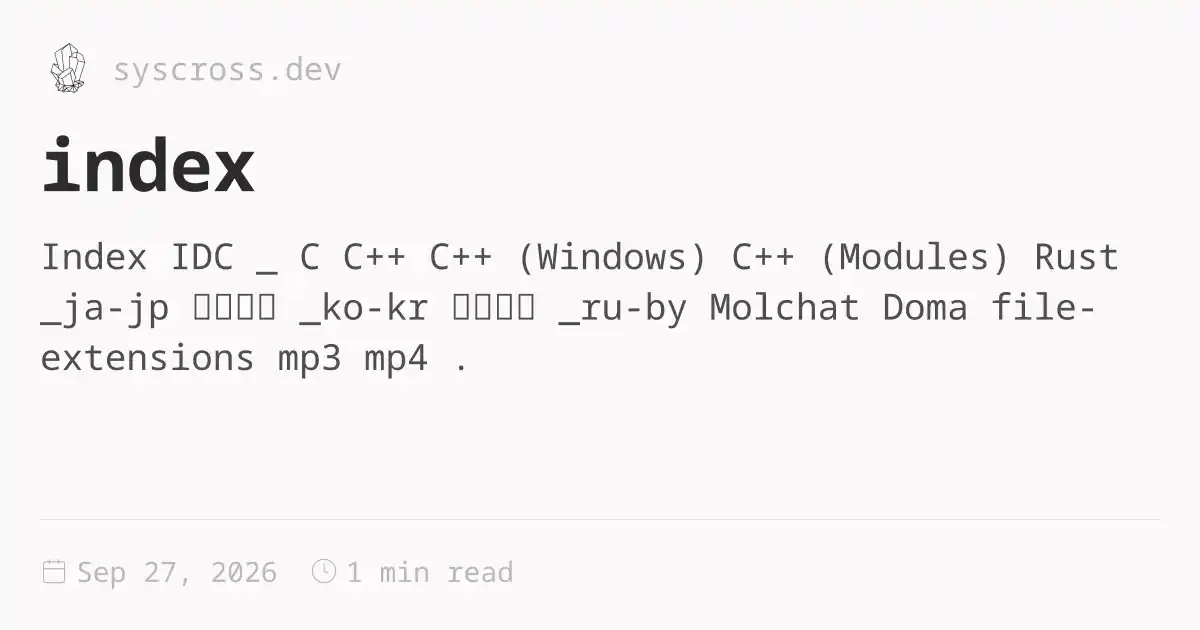
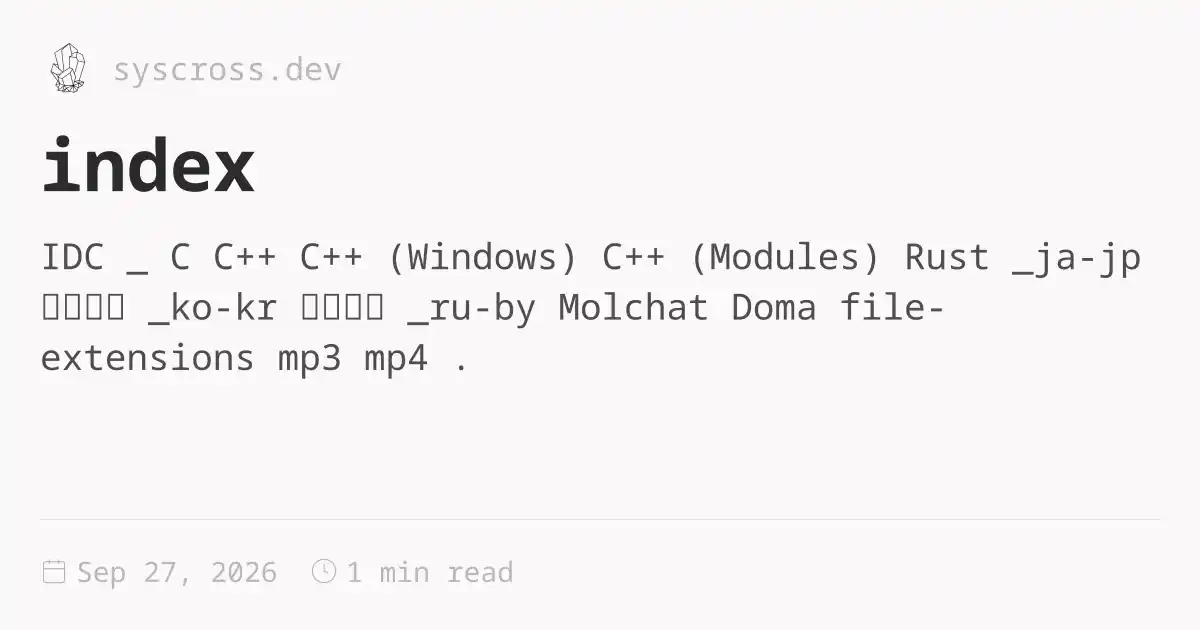
sync

Changed region(s): [[0.0308, 0.3921, 0.9558, 0.5429]]

diff --git a/.target/index.html b/.target/index.html
@@ -1,6 +1,5 @@
 <!DOCTYPE html>
-<html lang="en" dir="ltr"><head><title>index</title><meta charset="utf-8"/><link rel="preload" href="./index-17ede50d.css" as="style"/><link rel="preload" href="./prescript-2bfc6315.js" as="script"/><link rel="preconnect" href="https://fonts.googleapis.com"/><link rel="preconnect" href="https://fonts.gstatic.com"/><link rel="stylesheet" href="https://fonts.googleapis.com/css2?family=Noto Sans Mono:wght@400;700&amp;family=Noto Sans Mono:ital,wght@0,400;0,600;1,400;1,600&amp;family=Noto Sans Mono:wght@400;600&amp;display=swap"/><link rel="preconnect" href="https://cdnjs.cloudflare.com" crossorigin="anonymous"/><meta name="viewport" content="width=device-width, initial-scale=1.0"/><meta name="og:site_name" content="SysCross"/><meta property="og:title" content="index"/><meta property="og:type" content="website"/><meta name="twitter:card" content="summary_large_image"/><meta name="twitter:title" content="index"/><meta name="twitter:description" content="Index IDC _ C C++ C++ (Windows) C++ (Modules) Rust _ja-jp 電検三種 _ko-kr 전기기사 _ru-by Molchat Doma file-extensions mp3 mp4 ."/><meta property="og:description" content="Index IDC _ C C++ C++ (Windows) C++ (Modules) Rust _ja-jp 電検三種 _ko-kr 전기기사 _ru-by Molchat Doma file-extensions mp3 mp4 ."/><meta property="og:image:alt" content="Index IDC _ C C++ C++ (Windows) C++ (Modules) Rust _ja-jp 電検三種 _ko-kr 전기기사 _ru-by Molchat Doma file-extensions mp3 mp4 ."/><meta property="twitter:domain" content="syscross.dev"/><meta property="og:url" content="https://syscross.dev/index"/><meta property="twitter:url" content="https://syscross.dev/index"/><link rel="icon" href="./static/icon.png"/><meta name="description" content="Index IDC _ C C++ C++ (Windows) C++ (Modules) Rust _ja-jp 電検三種 _ko-kr 전기기사 _ru-by Molchat Doma file-extensions mp3 mp4 ."/><meta name="generator" content="Quartz"/><link href="./index-17ede50d.css" rel="stylesheet" type="text/css" data-persist="true"/><link href="./component-735924e0.css" rel="stylesheet" type="text/css" data-persist="true"/><link href="./component-589c1cea.css" rel="stylesheet" type="text/css" data-persist="true"/><link href="./component-bbc3f7c0.css" rel="stylesheet" type="text/css" data-persist="true"/><link href="./component-2911f5d1.css" rel="stylesheet" type="text/css" data-persist="true"/><link href="./component-e427079e.css" rel="stylesheet" type="text/css" data-persist="true"/><link href="./component-53b25b2b.css" rel="stylesheet" type="text/css" data-persist="true"/><link href="./component-c93c6a44.css" rel="stylesheet" type="text/css" data-persist="true"/><link href="./component-8a06014f.css" rel="stylesheet" type="text/css" data-persist="true"/><link href="./component-77d6a441.css" rel="stylesheet" type="text/css" data-persist="true"/><link href="./component-6ee21cee.css" rel="stylesheet" type="text/css" data-persist="true"/><link href="./component-1ea6ad18.css" rel="stylesheet" type="text/css" data-persist="true"/><link href="./component-34bdfded.css" rel="stylesheet" type="text/css" data-persist="true"/><link href="./component-788c9ca3.css" rel="stylesheet" type="text/css" data-persist="true"/><link href="./component-642859cd.css" rel="stylesheet" type="text/css" data-persist="true"/><link href="./component-4abc06bd.css" rel="stylesheet" type="text/css" data-persist="true"/><link href="./component-274a3dfe.css" rel="stylesheet" type="text/css" data-persist="true"/><link href="./component-94cb6c84.css" rel="stylesheet" type="text/css" data-persist="true"/><link href="./component-58d5ff56.css" rel="stylesheet" type="text/css" data-persist="true"/><link href="./component-7262b5a7.css" rel="stylesheet" type="text/css" data-persist="true"/><link href="./static/resource-style-a5c806d2.css" rel="stylesheet" type="text/css" data-persist="true"/><link href="./static/resource-style-6bd36952.css" rel="stylesheet" type="text/css" data-persist="true"/><link href="./static/resource-style-9857b007.css" rel="stylesheet" type="text/css" data-persist="true"/><link href="./static/resource-style-d3a1a224.css" rel="stylesheet" type="text/css" data-persist="true"/><link href="https://cdn.jsdelivr.net/npm/katex@0.16.11/dist/katex.min.css" rel="stylesheet" type="text/css" data-persist="true"/><script src="./prescript-2bfc6315.js" type="application/javascript" data-persist="true"></script><script type="application/javascript" data-persist="true">const fetchData = fetch("./static/contentIndex.json").then(data => data.json())</script><link rel="preconnect" href="https://fonts.googleapis.com"/><link rel="preconnect" href="https://fonts.gstatic.com" crossorigin="anonymous"/><link rel="stylesheet" href="https://fonts.googleapis.com/css2?family=Schibsted%20Grotesk%3Awght%40400%3B700&amp;family=Source%20Sans%20Pro%3Aital%2Cwght%400%2C400%3B0%2C600%3B1%2C400%3B1%2C600&amp;family=IBM%20Plex%20Mono%3Awght%40400%3B600&amp;display=swap"/><meta property="og:image:width" content="1200"/><meta property="og:image:height" content="630"/><meta property="og:image" content="https://syscross.dev/index-og-image.webp"/><meta property="og:image:url" content="https://syscross.dev/index-og-image.webp"/><meta name="twitter:image" content="https://syscross.dev/index-og-image.webp"/><meta property="og:image:type" content="image/webp"/></head><body data-slug="index" data-basepath><div id="quartz-root" class="page" data-frame="default"><div id="quartz-body"><div class="left sidebar"><h2 class="page-title"><a href=".">SysCross</a></h2><div class="mobile-only"><div class="spacer"></div></div><div class="flex-component" style="flex-direction: row; flex-wrap: nowrap; gap: 0.5rem;"><div style="flex-grow: 1; flex-shrink: 1; flex-basis: auto; order: 0; align-self: center; justify-self: center;"><div class="search"><button class="search-button" aria-label="Search" aria-expanded="false"><svg role="img" xmlns="http://www.w3.org/2000/svg" viewBox="0 0 19.9 19.7"><title>Search</title><g class="search-path" fill="none"><path stroke-linecap="square" d="M18.5 18.3l-5.4-5.4"></path><circle cx="8" cy="8" r="7"></circle></g></svg><p>Search</p></button><div class="search-container"><div class="search-space"><input autocomplete="off" class="search-bar" name="search" type="text" aria-label="Search for something..." placeholder="Search for something..."/><div class="search-layout" data-preview="true" data-field-priority="[&quot;title&quot;,&quot;content&quot;,&quot;tags&quot;]"></div></div></div></div></div><div style="flex-grow: 0; flex-shrink: 1; flex-basis: auto; order: 0; align-self: center; justify-self: center;"><button class="darkmode" aria-label="Dark mode"><svg xmlns="http://www.w3.org/2000/svg" xmlns:xlink="http://www.w3.org/1999/xlink" version="1.1" class="dayIcon" x="0px" y="0px" viewBox="0 0 35 35" style="enable-background:new 0 0 35 35" xml:space="preserve" aria-label="Dark mode"><title>Dark mode</title><path d="M6,17.5C6,16.672,5.328,16,4.5,16h-3C0.672,16,0,16.672,0,17.5    S0.672,19,1.5,19h3C5.328,19,6,18.328,6,17.5z M7.5,26c-0.414,0-0.789,0.168-1.061,0.439l-2,2C4.168,28.711,4,29.086,4,29.5    C4,30.328,4.671,31,5.5,31c0.414,0,0.789-0.168,1.06-0.44l2-2C8.832,28.289,9,27.914,9,27.5C9,26.672,8.329,26,7.5,26z M17.5,6    C18.329,6,19,5.328,19,4.5v-3C19,0.672,18.329,0,17.5,0S16,0.672,16,1.5v3C16,5.328,16.671,6,17.5,6z M27.5,9    c0.414,0,0.789-0.168,1.06-0.439l2-2C30.832,6.289,31,5.914,31,5.5C31,4.672,30.329,4,29.5,4c-0.414,0-0.789,0.168-1.061,0.44    l-2,2C26.168,6.711,26,7.086,26,7.5C26,8.328,26.671,9,27.5,9z M6.439,8.561C6.711,8.832,7.086,9,7.5,9C8.328,9,9,8.328,9,7.5    c0-0.414-0.168-0.789-0.439-1.061l-2-2C6.289,4.168,5.914,4,5.5,4C4.672,4,4,4.672,4,5.5c0,0.414,0.168,0.789,0.439,1.06    L6.439,8.561z M33.5,16h-3c-0.828,0-1.5,0.672-1.5,1.5s0.672,1.5,1.5,1.5h3c0.828,0,1.5-0.672,1.5-1.5S34.328,16,33.5,16z     M28.561,26.439C28.289,26.168,27.914,26,27.5,26c-0.828,0-1.5,0.672-1.5,1.5c0,0.414,0.168,0.789,0.439,1.06l2,2    C28.711,30.832,29.086,31,29.5,31c0.828,0,1.5-0.672,1.5-1.5c0-0.414-0.168-0.789-0.439-1.061L28.561,26.439z M17.5,29    c-0.829,0-1.5,0.672-1.5,1.5v3c0,0.828,0.671,1.5,1.5,1.5s1.5-0.672,1.5-1.5v-3C19,29.672,18.329,29,17.5,29z M17.5,7    C11.71,7,7,11.71,7,17.5S11.71,28,17.5,28S28,23.29,28,17.5S23.29,7,17.5,7z M17.5,25c-4.136,0-7.5-3.364-7.5-7.5    c0-4.136,3.364-7.5,7.5-7.5c4.136,0,7.5,3.364,7.5,7.5C25,21.636,21.636,25,17.5,25z"></path></svg><svg xmlns="http://www.w3.org/2000/svg" xmlns:xlink="http://www.w3.org/1999/xlink" version="1.1" class="nightIcon" x="0px" y="0px" viewBox="0 0 100 100" style="enable-background:new 0 0 100 100" xml:space="preserve" aria-label="Light mode"><title>Light mode</title><path d="M96.76,66.458c-0.853-0.852-2.15-1.064-3.23-0.534c-6.063,2.991-12.858,4.571-19.655,4.571  C62.022,70.495,50.88,65.88,42.5,57.5C29.043,44.043,25.658,23.536,34.076,6.47c0.532-1.08,0.318-2.379-0.534-3.23  c-0.851-0.852-2.15-1.064-3.23-0.534c-4.918,2.427-9.375,5.619-13.246,9.491c-9.447,9.447-14.65,22.008-14.65,35.369  c0,13.36,5.203,25.921,14.65,35.368s22.008,14.65,35.368,14.65c13.361,0,25.921-5.203,35.369-14.65  c3.872-3.871,7.064-8.328,9.491-13.246C97.826,68.608,97.611,67.309,96.76,66.458z"></path></svg></button></div><div style="flex-grow: 0; flex-shrink: 1; flex-basis: auto; order: 0; align-self: center; justify-self: center;"><button class="readermode" aria-label="Reader mode"><svg xmlns="http://www.w3.org/2000/svg" xmlns:xlink="http://www.w3.org/1999/xlink" version="1.1" class="readerIcon" fill="currentColor" stroke="currentColor" stroke-width="0.2" stroke-linecap="round" stroke-linejoin="round" width="64px" height="64px" viewBox="0 0 24 24" aria-label="Reader mode"><title>Reader mode</title><g transform="translate(-1.8, -1.8) scale(1.15, 1.2)"><path d="M8.9891247,2.5 C10.1384702,2.5 11.2209868,2.96705384 12.0049645,3.76669482 C12.7883914,2.96705384 13.8709081,2.5 15.0202536,2.5 L18.7549359,2.5 C19.1691495,2.5 19.5049359,2.83578644 19.5049359,3.25 L19.5046891,4.004 L21.2546891,4.00457396 C21.6343849,4.00457396 21.9481801,4.28672784 21.9978425,4.6528034 L22.0046891,4.75457396 L22.0046891,20.25 C22.0046891,20.6296958 21.7225353,20.943491 21.3564597,20.9931534 L21.2546891,21 L2.75468914,21 C2.37499337,21 2.06119817,20.7178461 2.01153575,20.3517706 L2.00468914,20.25 L2.00468914,4.75457396 C2.00468914,4.37487819 2.28684302,4.061083 2.65291858,4.01142057 L2.75468914,4.00457396 L4.50368914,4.004 L4.50444233,3.25 C4.50444233,2.87030423 4.78659621,2.55650904 5.15267177,2.50684662 L5.25444233,2.5 L8.9891247,2.5 Z M4.50368914,5.504 L3.50468914,5.504 L3.50468914,19.5 L10.9478955,19.4998273 C10.4513189,18.9207296 9.73864328,18.5588115 8.96709342,18.5065584 L8.77307039,18.5 L5.25444233,18.5 C4.87474657,18.5 4.56095137,18.2178461 4.51128895,17.8517706 L4.50444233,17.75 L4.50368914,5.504 Z M19.5049359,17.75 C19.5049359,18.1642136 19.1691495,18.5 18.7549359,18.5 L15.2363079,18.5 C14.3910149,18.5 13.5994408,18.8724714 13.0614828,19.4998273 L20.5046891,19.5 L20.5046891,5.504 L19.5046891,5.504 L19.5049359,17.75 Z M18.0059359,3.999 L15.0202536,4 L14.8259077,4.00692283 C13.9889509,4.06666544 13.2254227,4.50975805 12.7549359,5.212 L12.7549359,17.777 L12.7782651,17.7601316 C13.4923805,17.2719483 14.3447024,17 15.2363079,17 L18.0059359,16.999 L18.0056891,4.798 L18.0033792,4.75457396 L18.0056891,4.71 L18.0059359,3.999 Z M8.9891247,4 L6.00368914,3.999 L6.00599909,4.75457396 L6.00599909,4.75457396 L6.00368914,4.783 L6.00368914,16.999 L8.77307039,17 C9.57551536,17 10.3461406,17.2202781 11.0128313,17.6202194 L11.2536891,17.776 L11.2536891,5.211 C10.8200889,4.56369974 10.1361548,4.13636104 9.37521067,4.02745763 L9.18347055,4.00692283 L8.9891247,4 Z"></path></g></svg></button></div></div><div class="explorer nav-files-container" data-behavior="link" data-collapsed="collapsed" data-savestate="true" data-data-fns="{&quot;order&quot;:[&quot;filter&quot;,&quot;map&quot;,&quot;sort&quot;],&quot;sortFn&quot;:&quot;(a2, b2) => {\n    if (!a2.isFolder &amp;&amp; !b2.isFolder || a2.isFolder &amp;&amp; b2.isFolder) {\n      return (a2.displayName || \&quot;\&quot;).localeCompare(b2.displayName || \&quot;\&quot;, void 0, {\n        numeric: true,\n        sensitivity: \&quot;base\&quot;\n      });\n    }\n    if (!a2.isFolder &amp;&amp; b2.isFolder) {\n      return 1;\n    }\n    return -1;\n  }&quot;,&quot;filterFn&quot;:&quot;(node) => node.slugSegment !== \&quot;tags\&quot;&quot;,&quot;mapFn&quot;:&quot;(node) => {\n    return node;\n  }&quot;}"><button type="button" class="explorer-toggle mobile-explorer hide-until-loaded" data-mobile="true" aria-controls="explorer-21" aria-label="Explorer"><svg xmlns="http://www.w3.org/2000/svg" width="24" height="24" viewBox="0 0 24 24" stroke-width="2" stroke-linecap="round" stroke-linejoin="round" class="lucide-menu"><line x1="4" x2="20" y1="12" y2="12"></line><line x1="4" x2="20" y1="6" y2="6"></line><line x1="4" x2="20" y1="18" y2="18"></line></svg></button><button type="button" class="title-button explorer-toggle desktop-explorer" data-mobile="false" aria-expanded="true"><h2>Explorer</h2><svg xmlns="http://www.w3.org/2000/svg" width="14" height="14" viewBox="5 8 14 8" fill="none" stroke="currentColor" stroke-width="2" stroke-linecap="round" stroke-linejoin="round" class="fold"><polyline points="6 9 12 15 18 9"></polyline></svg></button><div id="explorer-21" class="explorer-content" aria-expanded="false" role="group"><ul class="explorer-ul overflow" id="list-0"><li class="overflow-end"></li></ul></div><template id="template-file"><li><a href="#" class="nav-file-title tree-item-self"></a></li></template><template id="template-folder"><li><div class="folder-container nav-folder-title tree-item-self"><svg xmlns="http://www.w3.org/2000/svg" width="12" height="12" viewBox="5 8 14 8" fill="none" stroke="currentColor" stroke-width="2" stroke-linecap="round" stroke-linejoin="round" class="folder-icon nav-folder-collapse-indicator collapse-icon"><polyline points="6 9 12 15 18 9"></polyline></svg><div><button class="folder-button"><span class="folder-title"></span></button></div></div><div class="folder-outer"><ul class="content tree-item-children"></ul></div></li></template></div></div><div class="center"><div class="page-header"><div class="popover-hint"><h1 class="article-title">index</h1><p show-comma="true" class="content-meta"><time datetime="2026-09-26T17:35:21.000Z">Sep 27, 2026</time><span>1 min read</span></p></div></div><article class="popover-hint"><div class="markdown-preview-view markdown-rendered"><h1 id="index">Index<a role="anchor" aria-hidden="true" tabindex="-1" data-no-popover="true" href="#index" class="internal internal-link"><svg width="18" height="18" viewBox="0 0 24 24" fill="none" stroke="currentColor" stroke-width="2" stroke-linecap="round" stroke-linejoin="round"><path d="M10 13a5 5 0 0 0 7.54.54l3-3a5 5 0 0 0-7.07-7.07l-1.72 1.71"></path><path d="M14 11a5 5 0 0 0-7.54-.54l-3 3a5 5 0 0 0 7.07 7.07l1.71-1.71"></path></svg></a></h1>
-<ul>
+<html lang="en" dir="ltr"><head><title>index</title><meta charset="utf-8"/><link rel="preload" href="./index-17ede50d.css" as="style"/><link rel="preload" href="./prescript-2bfc6315.js" as="script"/><link rel="preconnect" href="https://fonts.googleapis.com"/><link rel="preconnect" href="https://fonts.gstatic.com"/><link rel="stylesheet" href="https://fonts.googleapis.com/css2?family=Noto Sans Mono:wght@400;700&amp;family=Noto Sans Mono:ital,wght@0,400;0,600;1,400;1,600&amp;family=Noto Sans Mono:wght@400;600&amp;display=swap"/><link rel="preconnect" href="https://cdnjs.cloudflare.com" crossorigin="anonymous"/><meta name="viewport" content="width=device-width, initial-scale=1.0"/><meta name="og:site_name" content="SysCross"/><meta property="og:title" content="index"/><meta property="og:type" content="website"/><meta name="twitter:card" content="summary_large_image"/><meta name="twitter:title" content="index"/><meta name="twitter:description" content="IDC _ C C++ C++ (Windows) C++ (Modules) Rust _ja-jp 電検三種 _ko-kr 전기기사 _ru-by Molchat Doma file-extensions mp3 mp4 ."/><meta property="og:description" content="IDC _ C C++ C++ (Windows) C++ (Modules) Rust _ja-jp 電検三種 _ko-kr 전기기사 _ru-by Molchat Doma file-extensions mp3 mp4 ."/><meta property="og:image:alt" content="IDC _ C C++ C++ (Windows) C++ (Modules) Rust _ja-jp 電検三種 _ko-kr 전기기사 _ru-by Molchat Doma file-extensions mp3 mp4 ."/><meta property="twitter:domain" content="syscross.dev"/><meta property="og:url" content="https://syscross.dev/index"/><meta property="twitter:url" content="https://syscross.dev/index"/><link rel="icon" href="./static/icon.png"/><meta name="description" content="IDC _ C C++ C++ (Windows) C++ (Modules) Rust _ja-jp 電検三種 _ko-kr 전기기사 _ru-by Molchat Doma file-extensions mp3 mp4 ."/><meta name="generator" content="Quartz"/><link href="./index-17ede50d.css" rel="stylesheet" type="text/css" data-persist="true"/><link href="./component-735924e0.css" rel="stylesheet" type="text/css" data-persist="true"/><link href="./component-589c1cea.css" rel="stylesheet" type="text/css" data-persist="true"/><link href="./component-bbc3f7c0.css" rel="stylesheet" type="text/css" data-persist="true"/><link href="./component-2911f5d1.css" rel="stylesheet" type="text/css" data-persist="true"/><link href="./component-e427079e.css" rel="stylesheet" type="text/css" data-persist="true"/><link href="./component-53b25b2b.css" rel="stylesheet" type="text/css" data-persist="true"/><link href="./component-c93c6a44.css" rel="stylesheet" type="text/css" data-persist="true"/><link href="./component-8a06014f.css" rel="stylesheet" type="text/css" data-persist="true"/><link href="./component-77d6a441.css" rel="stylesheet" type="text/css" data-persist="true"/><link href="./component-6ee21cee.css" rel="stylesheet" type="text/css" data-persist="true"/><link href="./component-1ea6ad18.css" rel="stylesheet" type="text/css" data-persist="true"/><link href="./component-34bdfded.css" rel="stylesheet" type="text/css" data-persist="true"/><link href="./component-788c9ca3.css" rel="stylesheet" type="text/css" data-persist="true"/><link href="./component-642859cd.css" rel="stylesheet" type="text/css" data-persist="true"/><link href="./component-4abc06bd.css" rel="stylesheet" type="text/css" data-persist="true"/><link href="./component-274a3dfe.css" rel="stylesheet" type="text/css" data-persist="true"/><link href="./component-94cb6c84.css" rel="stylesheet" type="text/css" data-persist="true"/><link href="./component-58d5ff56.css" rel="stylesheet" type="text/css" data-persist="true"/><link href="./component-7262b5a7.css" rel="stylesheet" type="text/css" data-persist="true"/><link href="./static/resource-style-a5c806d2.css" rel="stylesheet" type="text/css" data-persist="true"/><link href="./static/resource-style-6bd36952.css" rel="stylesheet" type="text/css" data-persist="true"/><link href="./static/resource-style-9857b007.css" rel="stylesheet" type="text/css" data-persist="true"/><link href="./static/resource-style-d3a1a224.css" rel="stylesheet" type="text/css" data-persist="true"/><link href="https://cdn.jsdelivr.net/npm/katex@0.16.11/dist/katex.min.css" rel="stylesheet" type="text/css" data-persist="true"/><script src="./prescript-2bfc6315.js" type="application/javascript" data-persist="true"></script><script type="application/javascript" data-persist="true">const fetchData = fetch("./static/contentIndex.json").then(data => data.json())</script><link rel="preconnect" href="https://fonts.googleapis.com"/><link rel="preconnect" href="https://fonts.gstatic.com" crossorigin="anonymous"/><link rel="stylesheet" href="https://fonts.googleapis.com/css2?family=Schibsted%20Grotesk%3Awght%40400%3B700&amp;family=Source%20Sans%20Pro%3Aital%2Cwght%400%2C400%3B0%2C600%3B1%2C400%3B1%2C600&amp;family=IBM%20Plex%20Mono%3Awght%40400%3B600&amp;display=swap"/><meta property="og:image:width" content="1200"/><meta property="og:image:height" content="630"/><meta property="og:image" content="https://syscross.dev/index-og-image.webp"/><meta property="og:image:url" content="https://syscross.dev/index-og-image.webp"/><meta name="twitter:image" content="https://syscross.dev/index-og-image.webp"/><meta property="og:image:type" content="image/webp"/></head><body data-slug="index" data-basepath><div id="quartz-root" class="page" data-frame="default"><div id="quartz-body"><div class="left sidebar"><h2 class="page-title"><a href=".">SysCross</a></h2><div class="mobile-only"><div class="spacer"></div></div><div class="flex-component" style="flex-direction: row; flex-wrap: nowrap; gap: 0.5rem;"><div style="flex-grow: 1; flex-shrink: 1; flex-basis: auto; order: 0; align-self: center; justify-self: center;"><div class="search"><button class="search-button" aria-label="Search" aria-expanded="false"><svg role="img" xmlns="http://www.w3.org/2000/svg" viewBox="0 0 19.9 19.7"><title>Search</title><g class="search-path" fill="none"><path stroke-linecap="square" d="M18.5 18.3l-5.4-5.4"></path><circle cx="8" cy="8" r="7"></circle></g></svg><p>Search</p></button><div class="search-container"><div class="search-space"><input autocomplete="off" class="search-bar" name="search" type="text" aria-label="Search for something..." placeholder="Search for something..."/><div class="search-layout" data-preview="true" data-field-priority="[&quot;title&quot;,&quot;content&quot;,&quot;tags&quot;]"></div></div></div></div></div><div style="flex-grow: 0; flex-shrink: 1; flex-basis: auto; order: 0; align-self: center; justify-self: center;"><button class="darkmode" aria-label="Dark mode"><svg xmlns="http://www.w3.org/2000/svg" xmlns:xlink="http://www.w3.org/1999/xlink" version="1.1" class="dayIcon" x="0px" y="0px" viewBox="0 0 35 35" style="enable-background:new 0 0 35 35" xml:space="preserve" aria-label="Dark mode"><title>Dark mode</title><path d="M6,17.5C6,16.672,5.328,16,4.5,16h-3C0.672,16,0,16.672,0,17.5    S0.672,19,1.5,19h3C5.328,19,6,18.328,6,17.5z M7.5,26c-0.414,0-0.789,0.168-1.061,0.439l-2,2C4.168,28.711,4,29.086,4,29.5    C4,30.328,4.671,31,5.5,31c0.414,0,0.789-0.168,1.06-0.44l2-2C8.832,28.289,9,27.914,9,27.5C9,26.672,8.329,26,7.5,26z M17.5,6    C18.329,6,19,5.328,19,4.5v-3C19,0.672,18.329,0,17.5,0S16,0.672,16,1.5v3C16,5.328,16.671,6,17.5,6z M27.5,9    c0.414,0,0.789-0.168,1.06-0.439l2-2C30.832,6.289,31,5.914,31,5.5C31,4.672,30.329,4,29.5,4c-0.414,0-0.789,0.168-1.061,0.44    l-2,2C26.168,6.711,26,7.086,26,7.5C26,8.328,26.671,9,27.5,9z M6.439,8.561C6.711,8.832,7.086,9,7.5,9C8.328,9,9,8.328,9,7.5    c0-0.414-0.168-0.789-0.439-1.061l-2-2C6.289,4.168,5.914,4,5.5,4C4.672,4,4,4.672,4,5.5c0,0.414,0.168,0.789,0.439,1.06    L6.439,8.561z M33.5,16h-3c-0.828,0-1.5,0.672-1.5,1.5s0.672,1.5,1.5,1.5h3c0.828,0,1.5-0.672,1.5-1.5S34.328,16,33.5,16z     M28.561,26.439C28.289,26.168,27.914,26,27.5,26c-0.828,0-1.5,0.672-1.5,1.5c0,0.414,0.168,0.789,0.439,1.06l2,2    C28.711,30.832,29.086,31,29.5,31c0.828,0,1.5-0.672,1.5-1.5c0-0.414-0.168-0.789-0.439-1.061L28.561,26.439z M17.5,29    c-0.829,0-1.5,0.672-1.5,1.5v3c0,0.828,0.671,1.5,1.5,1.5s1.5-0.672,1.5-1.5v-3C19,29.672,18.329,29,17.5,29z M17.5,7    C11.71,7,7,11.71,7,17.5S11.71,28,17.5,28S28,23.29,28,17.5S23.29,7,17.5,7z M17.5,25c-4.136,0-7.5-3.364-7.5-7.5    c0-4.136,3.364-7.5,7.5-7.5c4.136,0,7.5,3.364,7.5,7.5C25,21.636,21.636,25,17.5,25z"></path></svg><svg xmlns="http://www.w3.org/2000/svg" xmlns:xlink="http://www.w3.org/1999/xlink" version="1.1" class="nightIcon" x="0px" y="0px" viewBox="0 0 100 100" style="enable-background:new 0 0 100 100" xml:space="preserve" aria-label="Light mode"><title>Light mode</title><path d="M96.76,66.458c-0.853-0.852-2.15-1.064-3.23-0.534c-6.063,2.991-12.858,4.571-19.655,4.571  C62.022,70.495,50.88,65.88,42.5,57.5C29.043,44.043,25.658,23.536,34.076,6.47c0.532-1.08,0.318-2.379-0.534-3.23  c-0.851-0.852-2.15-1.064-3.23-0.534c-4.918,2.427-9.375,5.619-13.246,9.491c-9.447,9.447-14.65,22.008-14.65,35.369  c0,13.36,5.203,25.921,14.65,35.368s22.008,14.65,35.368,14.65c13.361,0,25.921-5.203,35.369-14.65  c3.872-3.871,7.064-8.328,9.491-13.246C97.826,68.608,97.611,67.309,96.76,66.458z"></path></svg></button></div><div style="flex-grow: 0; flex-shrink: 1; flex-basis: auto; order: 0; align-self: center; justify-self: center;"><button class="readermode" aria-label="Reader mode"><svg xmlns="http://www.w3.org/2000/svg" xmlns:xlink="http://www.w3.org/1999/xlink" version="1.1" class="readerIcon" fill="currentColor" stroke="currentColor" stroke-width="0.2" stroke-linecap="round" stroke-linejoin="round" width="64px" height="64px" viewBox="0 0 24 24" aria-label="Reader mode"><title>Reader mode</title><g transform="translate(-1.8, -1.8) scale(1.15, 1.2)"><path d="M8.9891247,2.5 C10.1384702,2.5 11.2209868,2.96705384 12.0049645,3.76669482 C12.7883914,2.96705384 13.8709081,2.5 15.0202536,2.5 L18.7549359,2.5 C19.1691495,2.5 19.5049359,2.83578644 19.5049359,3.25 L19.5046891,4.004 L21.2546891,4.00457396 C21.6343849,4.00457396 21.9481801,4.28672784 21.9978425,4.6528034 L22.0046891,4.75457396 L22.0046891,20.25 C22.0046891,20.6296958 21.7225353,20.943491 21.3564597,20.9931534 L21.2546891,21 L2.75468914,21 C2.37499337,21 2.06119817,20.7178461 2.01153575,20.3517706 L2.00468914,20.25 L2.00468914,4.75457396 C2.00468914,4.37487819 2.28684302,4.061083 2.65291858,4.01142057 L2.75468914,4.00457396 L4.50368914,4.004 L4.50444233,3.25 C4.50444233,2.87030423 4.78659621,2.55650904 5.15267177,2.50684662 L5.25444233,2.5 L8.9891247,2.5 Z M4.50368914,5.504 L3.50468914,5.504 L3.50468914,19.5 L10.9478955,19.4998273 C10.4513189,18.9207296 9.73864328,18.5588115 8.96709342,18.5065584 L8.77307039,18.5 L5.25444233,18.5 C4.87474657,18.5 4.56095137,18.2178461 4.51128895,17.8517706 L4.50444233,17.75 L4.50368914,5.504 Z M19.5049359,17.75 C19.5049359,18.1642136 19.1691495,18.5 18.7549359,18.5 L15.2363079,18.5 C14.3910149,18.5 13.5994408,18.8724714 13.0614828,19.4998273 L20.5046891,19.5 L20.5046891,5.504 L19.5046891,5.504 L19.5049359,17.75 Z M18.0059359,3.999 L15.0202536,4 L14.8259077,4.00692283 C13.9889509,4.06666544 13.2254227,4.50975805 12.7549359,5.212 L12.7549359,17.777 L12.7782651,17.7601316 C13.4923805,17.2719483 14.3447024,17 15.2363079,17 L18.0059359,16.999 L18.0056891,4.798 L18.0033792,4.75457396 L18.0056891,4.71 L18.0059359,3.999 Z M8.9891247,4 L6.00368914,3.999 L6.00599909,4.75457396 L6.00599909,4.75457396 L6.00368914,4.783 L6.00368914,16.999 L8.77307039,17 C9.57551536,17 10.3461406,17.2202781 11.0128313,17.6202194 L11.2536891,17.776 L11.2536891,5.211 C10.8200889,4.56369974 10.1361548,4.13636104 9.37521067,4.02745763 L9.18347055,4.00692283 L8.9891247,4 Z"></path></g></svg></button></div></div><div class="explorer nav-files-container" data-behavior="link" data-collapsed="collapsed" data-savestate="true" data-data-fns="{&quot;order&quot;:[&quot;filter&quot;,&quot;map&quot;,&quot;sort&quot;],&quot;sortFn&quot;:&quot;(a2, b2) => {\n    if (!a2.isFolder &amp;&amp; !b2.isFolder || a2.isFolder &amp;&amp; b2.isFolder) {\n      return (a2.displayName || \&quot;\&quot;).localeCompare(b2.displayName || \&quot;\&quot;, void 0, {\n        numeric: true,\n        sensitivity: \&quot;base\&quot;\n      });\n    }\n    if (!a2.isFolder &amp;&amp; b2.isFolder) {\n      return 1;\n    }\n    return -1;\n  }&quot;,&quot;filterFn&quot;:&quot;(node) => node.slugSegment !== \&quot;tags\&quot;&quot;,&quot;mapFn&quot;:&quot;(node) => {\n    return node;\n  }&quot;}"><button type="button" class="explorer-toggle mobile-explorer hide-until-loaded" data-mobile="true" aria-controls="explorer-21" aria-label="Explorer"><svg xmlns="http://www.w3.org/2000/svg" width="24" height="24" viewBox="0 0 24 24" stroke-width="2" stroke-linecap="round" stroke-linejoin="round" class="lucide-menu"><line x1="4" x2="20" y1="12" y2="12"></line><line x1="4" x2="20" y1="6" y2="6"></line><line x1="4" x2="20" y1="18" y2="18"></line></svg></button><button type="button" class="title-button explorer-toggle desktop-explorer" data-mobile="false" aria-expanded="true"><h2>Explorer</h2><svg xmlns="http://www.w3.org/2000/svg" width="14" height="14" viewBox="5 8 14 8" fill="none" stroke="currentColor" stroke-width="2" stroke-linecap="round" stroke-linejoin="round" class="fold"><polyline points="6 9 12 15 18 9"></polyline></svg></button><div id="explorer-21" class="explorer-content" aria-expanded="false" role="group"><ul class="explorer-ul overflow" id="list-0"><li class="overflow-end"></li></ul></div><template id="template-file"><li><a href="#" class="nav-file-title tree-item-self"></a></li></template><template id="template-folder"><li><div class="folder-container nav-folder-title tree-item-self"><svg xmlns="http://www.w3.org/2000/svg" width="12" height="12" viewBox="5 8 14 8" fill="none" stroke="currentColor" stroke-width="2" stroke-linecap="round" stroke-linejoin="round" class="folder-icon nav-folder-collapse-indicator collapse-icon"><polyline points="6 9 12 15 18 9"></polyline></svg><div><button class="folder-button"><span class="folder-title"></span></button></div></div><div class="folder-outer"><ul class="content tree-item-children"></ul></div></li></template></div></div><div class="center"><div class="page-header"><div class="popover-hint"><h1 class="article-title">index</h1><p show-comma="true" class="content-meta"><time datetime="2026-09-27T13:50:06.000Z">Sep 27, 2026</time><span>1 min read</span></p></div></div><article class="popover-hint"><div class="markdown-preview-view markdown-rendered"><ul>
 <li><a href="./idc" class="internal internal-link alias" data-slug="idc">IDC</a></li>
 <li><code>_</code>
 <ul>

diff --git a/index.md b/index.md
@@ -7,8 +7,6 @@ sorting-spec: |-
   < vsc-unicode
 ---
 
-# Index
-
 - [IDC](idc.md)
 - `_`
 	- [C](_/c.md)
